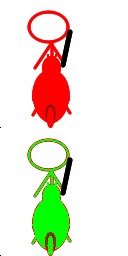
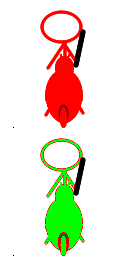
[Textures] added generation of framed images

Changed region(s): [[0.1875, 0.5312, 0.6875, 1.0], [0.1875, 0.0312, 0.6875, 0.5]]

diff --git a/src/utils/TexturePack.js b/src/utils/TexturePack.js
@@ -37,14 +37,23 @@ const DEFAULTS = {
 class TextureMeta {
     /** @type {TextureMeta | null} */
     #parent
+    /** @type {string} */
     #extension
+    /** @type {number} */
     #animationFrameDuration
+    /** @type {number} */
     #angleBetweenRotations
+    /** @type {boolean} */
     #isSymmetric
+    /** @type {TextureType} */
     #textureType
+    /** @type {number} */
     #pixelWidth
+    /** @type {number} */
     #pixelHeight
+    /** @type {number} */
     #worldWidth
+    /** @type {number} */
     #worldHeight
 
     constructor(parent, {extension, animationFrameDuration, angleBetweenRotations, isSymmetric, textureType, pixelWidth, pixelHeight, pixelSize, worldWidth, worldHeight, worldSize}) {
@@ -61,20 +70,31 @@ class TextureMeta {
         this.#worldHeight = worldHeight ?? worldSize
     }
 
+    /** @return {string} */
     get extension() { return this.#extension ?? this.#parent.extension }
+    /** @return {number} */
     get animationFrameDuration() { return this.#animationFrameDuration ?? this.#parent.animationFrameDuration }
+    /** @return {number} */
     get angleBetweenRotations() { return this.#angleBetweenRotations ?? this.#parent.angleBetweenRotations }
     /** @return {TextureType} */
     get textureType() { return this.#textureType ?? this.#parent.textureType }
+    /** @return {boolean} */
     get isSymmetric() { return this.#isSymmetric ?? this.#parent.isSymmetric }
+    /** @return {number} */
     get pixelWidth() { return this.#pixelWidth ?? this.#parent.pixelWidth }
+    /** @return {number} */
     get pixelHeight() { return this.#pixelHeight ?? this.#parent.pixelHeight }
+    /** @return {number} */
     get worldWidth() { return this.#worldWidth ?? this.#parent.worldWidth }
+    /** @return {number} */
     get worldHeight() { return this.#worldHeight ?? this.#parent.worldHeight }
 }
 
 const textureListLeaf = Symbol()
 const textureList = {
+    // keep first here, ensure it is present when trying to frame other images
+    frame: textureListLeaf,
+
     // {buildings: {archer: textureListLeaf, ...}, ...}
     entities: Object.values(entities).reduce(
         (acc, klass) => {
@@ -111,7 +131,7 @@ const textureList = {
     maps: {
         classic: textureListLeaf,
         test: textureListLeaf
-    }
+    },
 }
 
 export default class TexturePack {
@@ -165,6 +185,7 @@ export default class TexturePack {
 
                 while(toGet.length !== 0) {
                     const [path, localMeta, item] = toGet.shift()
+                    console.log(path, localMeta, item)
                     if (item === textureListLeaf) {
                         let localDefault = DEFAULTS
                         let localPackMeta = packMeta
@@ -172,9 +193,13 @@ export default class TexturePack {
                             localDefault = localDefault?.[part]
                             localPackMeta = localPackMeta?.[part]
                         }
-                        textures[path.join("/")] = isWebkitDirectory ?
+                        const texture = isWebkitDirectory ?
                             await Texture.forWebkitDirectory(files, path, this.#name, new TextureMeta(localMeta, {...localDefault, ...localPackMeta})) :
                             await Texture.for(path, this.#name, new TextureMeta(localMeta, {...localDefault, ...localPackMeta}))
+                        if (path.join("/") !== "frame") {
+                            await texture.makeFramed(textures.frame, this.#name)
+                        }
+                        textures[path.join("/")] = texture
                     } else {
                         let localDefault = DEFAULTS
                         let localPackMeta = packMeta
@@ -236,12 +261,25 @@ export default class TexturePack {
 
 
 class Texture {
-    /** @type {number} */
-    static #baseMarker = -1
+    /** @type {Symbol} */
+    static #baseMarker = Symbol("Texture.baseMarker")
+    /** @type {Symbol} */
+    static #framedMarker = Symbol("Texture.framedMarker")
+
+    /**
+     * the rotation we want portrayed in the framed variant, the closest if not available
+     * @type {Number}
+     */
+    static #frameRotation = 330;
+    /**
+     * the scale applied to the image when framed
+     * @type {Number}
+     */
+    static #frameScale = 80/100;
 
     /** @type {TextureMeta} */
     #meta
-    /** @type {Map<number, HTMLImageElement>} */
+    /** @type {Map<number | Symbol, HTMLImageElement>} */
     #imageElements = new Map()
 
     constructor(meta) {
@@ -249,7 +287,7 @@ class Texture {
     }
 
     /**
-     * @param {number} orientation
+     * @param {number | Symbol} orientation
      * @return {HTMLImageElement}
      */
     getForOrientation(orientation) { return this.#imageElements.get(orientation) }
@@ -270,6 +308,58 @@ class Texture {
     get worldHeight() { return this.#meta.worldHeight; }
 
     /**
+     * @param {Texture} frame
+     * @param {string} texturePackName
+     * @return {Promise<>}
+     */
+    makeFramed(frame, texturePackName) {
+        if (this.#imageElements.has(Texture.#framedMarker)) {
+            return new Promise(() => {})
+        }
+
+
+        // get the canvas
+        const canvas = document.getElementById("utilsCanvas")
+        canvas.width = this.#meta.pixelWidth / this.#meta.worldWidth
+        canvas.height = this.#meta.pixelHeight / this.#meta.worldHeight
+
+        const margin = (1 - Texture.#frameScale) / 2
+        const scale = Texture.#frameScale
+
+        // paste the image reversed left<->right on it
+        const context = canvas.getContext("2d")
+        context.clearRect(0, 0, canvas.width, canvas.height);
+        if (this.#meta.textureType === TextureType.IMAGE) {
+            context.drawImage(this.getBase(), canvas.width * margin, canvas.height * margin, canvas.width * scale, canvas.height * scale)
+        }
+        if (this.#meta.textureType === TextureType.BASE_ONLY || this.#meta.textureType === TextureType.ROTATION_AND_BASE) {
+            context.drawImage(this.getBase(), 0, 0, this.#meta.pixelWidth / this.#meta.worldWidth, this.#meta.pixelHeight / this.#meta.worldHeight, canvas.width * margin, canvas.height * margin, canvas.width * scale, canvas.height * scale)
+        }
+        if (this.#meta.textureType === TextureType.ROTATION_ONLY || this.#meta.textureType === TextureType.ROTATION_AND_BASE) {
+            const frameRotation = Math.ceil(Texture.#frameRotation / this.#meta.angleBetweenRotations) * this.#meta.angleBetweenRotations
+            console.log(
+                frameRotation,
+                this.getForOrientation(frameRotation),
+                this.#imageElements
+            )
+            context.drawImage(this.getForOrientation(frameRotation), 0, 0, this.#meta.pixelWidth / this.#meta.worldWidth, this.#meta.pixelHeight / this.#meta.worldHeight, canvas.width * margin, canvas.height * margin, canvas.width * scale, canvas.height * scale)
+        }
+        context.drawImage(frame.getBase(), 0, 0, canvas.width, canvas.height)
+
+        console.log(this.#imageElements)
+
+        // create a new image element with the rotated image
+        const framedImage = document.createElement("img")
+        framedImage.classList.add("framed")
+        framedImage.src = canvas.toDataURL("image/png")
+        TexturePack.getHtmlTextureContainerFor(texturePackName).appendChild(framedImage)
+        return new Promise((resolve, reject) => {
+            framedImage.onload = resolve
+            framedImage.onerror = reject
+        })
+    }
+
+    /**
      * @param {string[]} path
      * @param {string} texturePackName
      * @param {TextureMeta} textureMeta
@@ -277,7 +367,7 @@ class Texture {
      */
     static for(path, texturePackName, textureMeta) {
         const result = new Texture(textureMeta)
-        let texturesDiv = TexturePack.getHtmlTextureContainerFor(texturePackName)
+        const texturesDiv = TexturePack.getHtmlTextureContainerFor(texturePackName)
         /** @type {Promise[]} */
         const promises = []
 
@@ -356,7 +446,7 @@ class Texture {
      */
     static forWebkitDirectory(files, path, texturePackName, textureMeta) {
         const result = new Texture(textureMeta)
-        let texturesDiv = TexturePack.getHtmlTextureContainerFor(texturePackName)
+        const texturesDiv = TexturePack.getHtmlTextureContainerFor(texturePackName)
         /** @type {Promise[]} */
         const promises = []
 
@@ -447,6 +537,10 @@ class Texture {
         })
     }
 
+    /**
+     * @param {HTMLImageElement} image
+     * @returns {HTMLImageElement}
+     */
     static #mirrorImage(image) {
         // get the canvas
         const canvas = document.getElementById("utilsCanvas")
